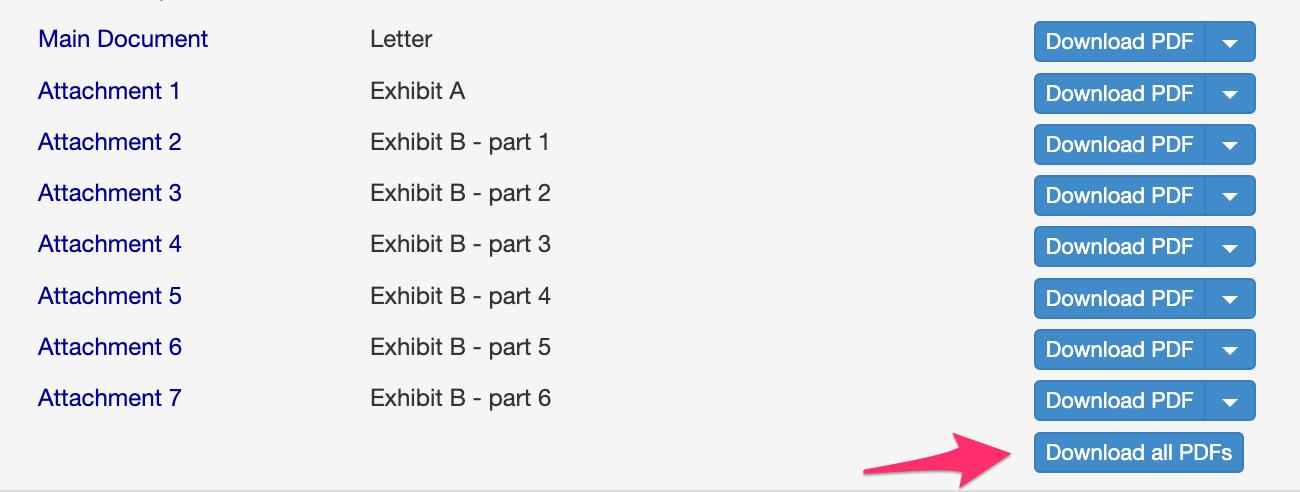
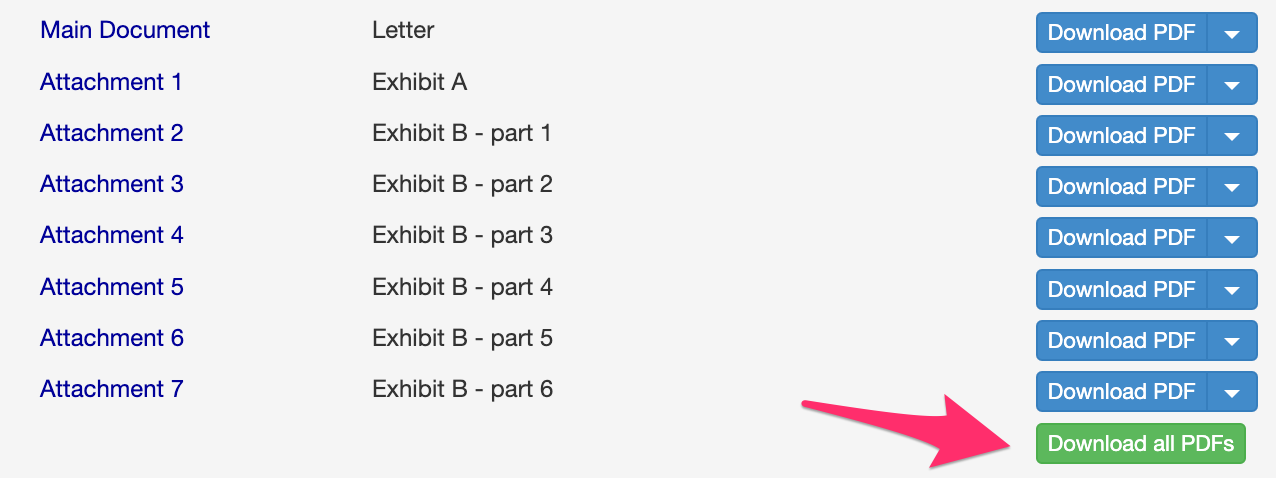
Distinguish button a little better

diff --git a/content.js b/content.js
@@ -30,7 +30,7 @@ for (let row of rows) {
       "hidden-print"
     );
     const button = document.createElement("button");
-    button.classList.add("btn", "btn-primary", "btn-xs");
+    button.classList.add("btn", "btn-success", "btn-xs");
     button.style.marginBottom = "8.5px";
     button.innerText = "Download all PDFs";
 
